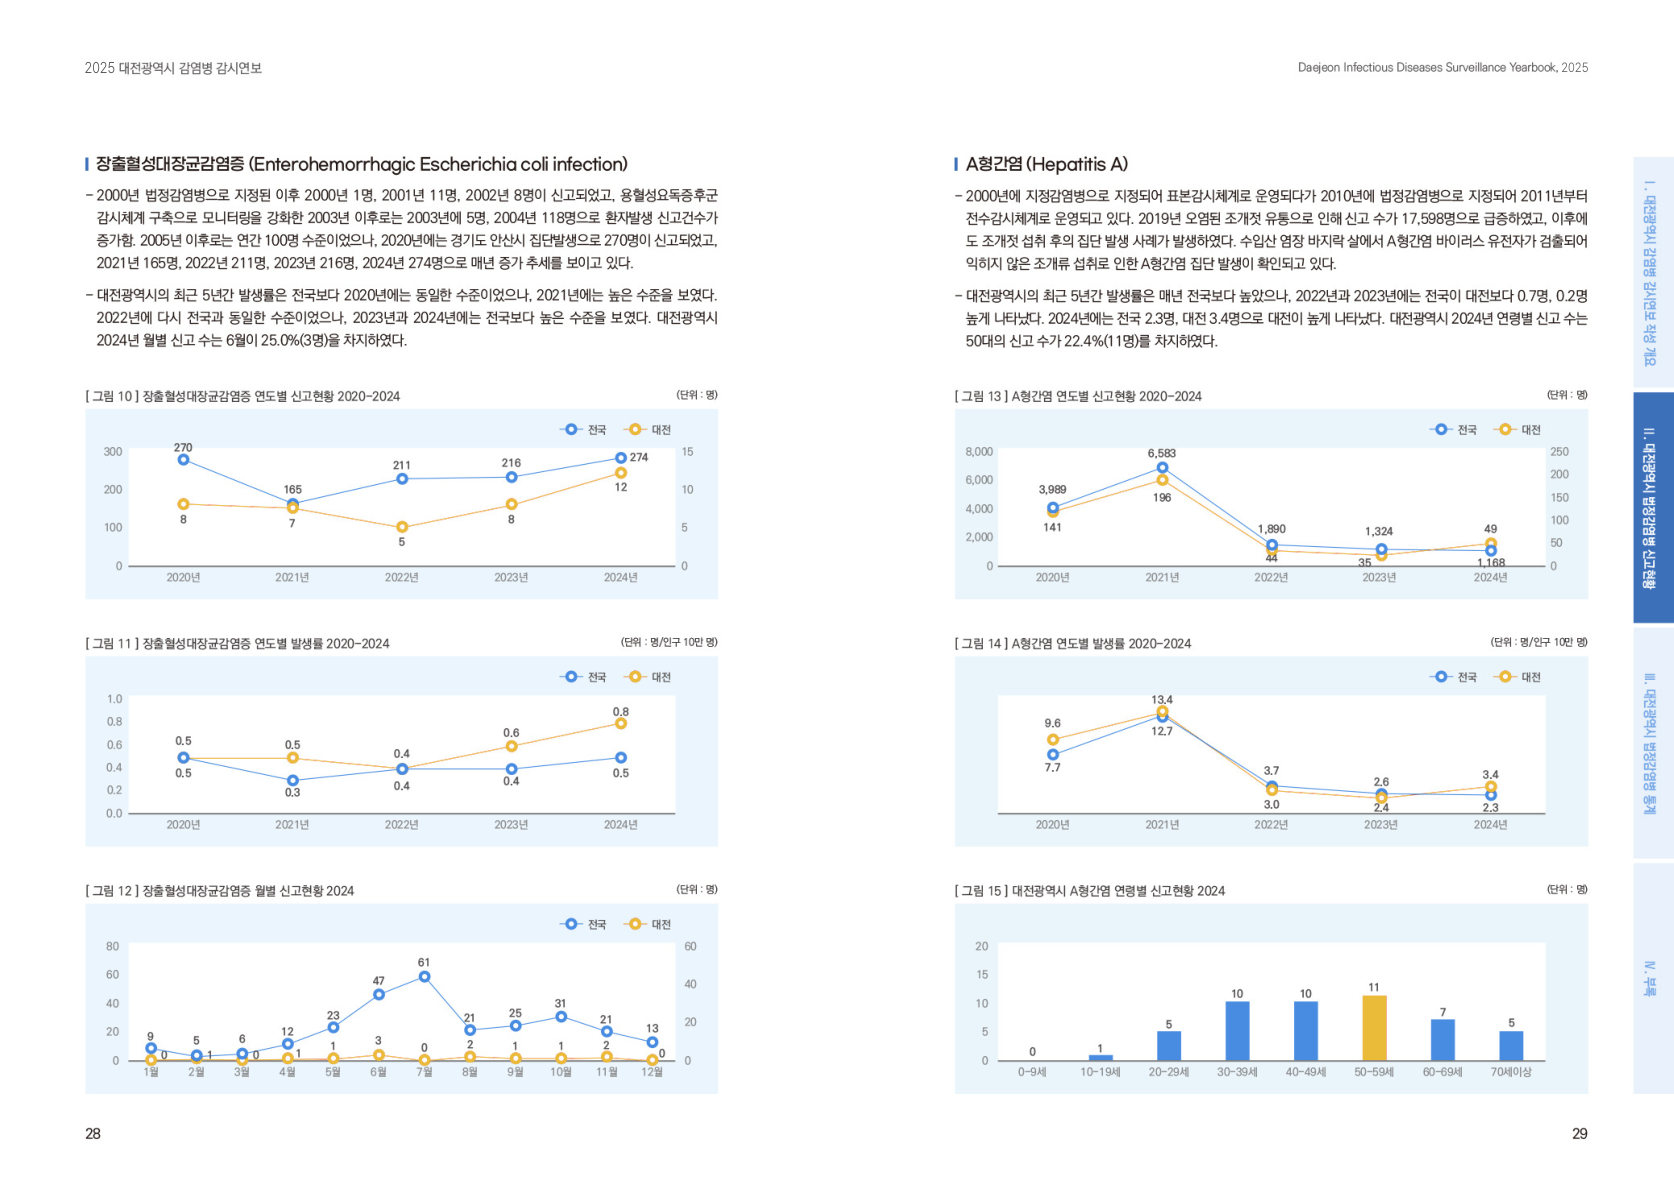
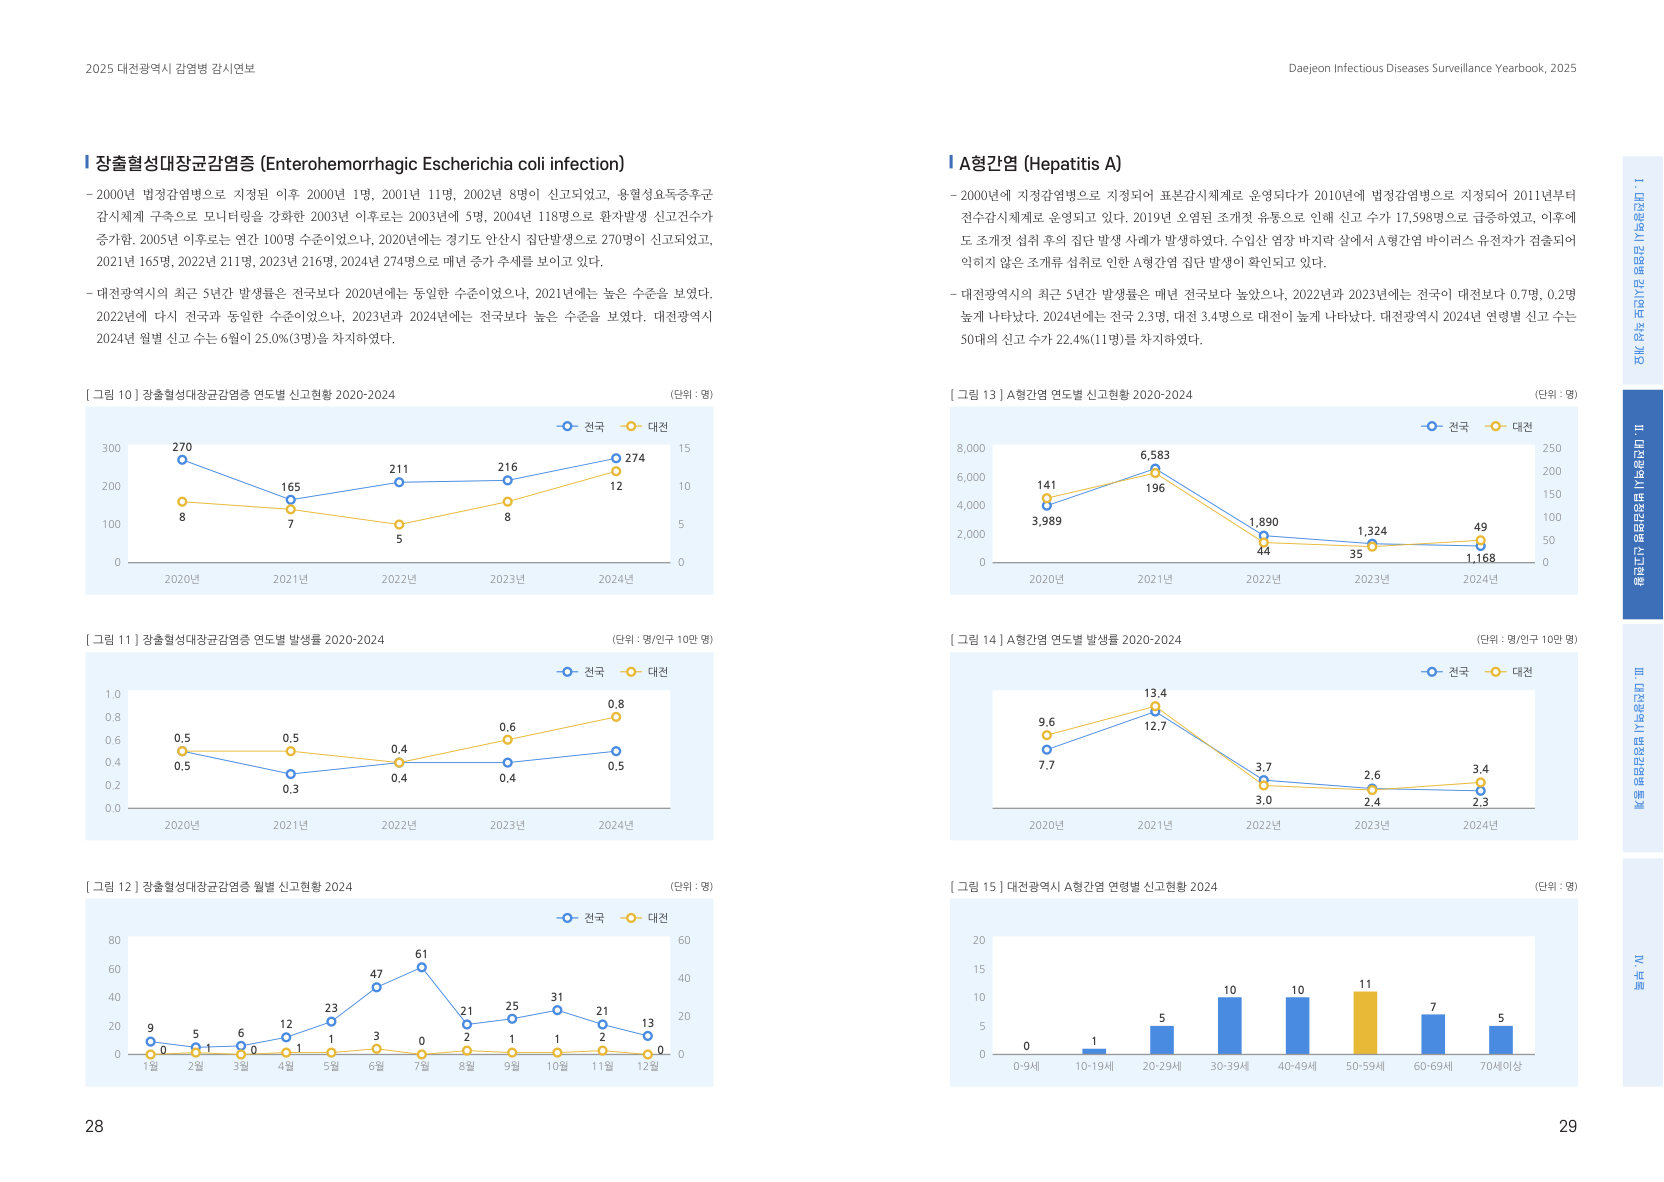
컨펌웹: 공통 일러스트·1안 서체 수정안, 결핵 표지 C안, 내지 벡터 재조판, 진행 상황 패널
- 결핵·감시 표지와 감시 간지 일러스트를 공통 일러스트(라인 + 포인트 면)로 교체
- 표지·간지 글자를 에스코어 드림으로, 내지 6개 펼침면을 1안 서체로 다시 조판
- 결핵 표지 다른 배치(C안) 추가, 감시 간지 제목 위치 조정
- 홈 오른쪽에 전체 진행 상황 패널 추가

diff --git a/index.html b/index.html
@@ -76,6 +76,39 @@ body::before{content:"";position:fixed;inset:0 0 auto;height:env(safe-area-inset
 @media (max-width:860px){.card.rev{grid-template-columns:1fr}}
 .rev-row + .plans{margin-top:24px}
 
+/* 메인: 왼쪽 시안 목록 + 오른쪽 진행 상황 */
+.home-grid{display:grid;grid-template-columns:minmax(0,1fr) 300px;grid-template-areas:"main side";gap:32px;align-items:start}
+.home-main{grid-area:main;min-width:0}
+.home-main .intro{grid-template-columns:1fr}
+.home-main .plans{grid-template-columns:repeat(2,minmax(0,1fr))}
+.progress{grid-area:side;position:sticky;top:calc(env(safe-area-inset-top,0px) + var(--head-h) + 16px);margin-top:12px;background:var(--surface);border:1px solid var(--line);border-radius:10px;padding:18px 18px 8px}
+.progress h2{font-size:16px;font-weight:700}
+.progress .sum{margin:6px 0 0;font-size:13px;color:var(--muted)}
+.progress .sum b{color:var(--fg)}
+.bar{height:6px;border-radius:999px;background:var(--stage);margin:12px 0 16px;overflow:hidden}
+.bar i{display:block;height:100%;background:var(--accent);border-radius:999px}
+.steps{list-style:none;margin:0;padding:0}
+.step{position:relative;display:grid;grid-template-columns:22px minmax(0,1fr);gap:0 10px;padding-bottom:14px}
+.step::before{content:"";position:absolute;left:10px;top:20px;bottom:0;width:2px;background:var(--line)}
+.step:last-child::before{display:none}
+.step.done::before{background:var(--accent)}
+.dot{width:22px;height:22px;border-radius:50%;display:grid;place-items:center;font-size:11px;font-weight:700;border:2px solid var(--line);background:var(--surface);color:var(--muted);position:relative;z-index:1}
+.step.done .dot{background:var(--accent);border-color:var(--accent);color:var(--accent-fg)}
+.step.now .dot{border-color:var(--accent);color:var(--accent);box-shadow:0 0 0 4px color-mix(in srgb,var(--accent) 18%,transparent)}
+.step.wait .dot{border-style:dashed}
+.step h3{font-size:14px;font-weight:700;line-height:1.4;display:flex;flex-wrap:wrap;align-items:center;gap:4px 8px}
+.step.todo h3,.step.wait h3{color:var(--muted);font-weight:500}
+.step p{margin:2px 0 0;font-size:12.5px;color:var(--muted);line-height:1.5}
+.state{font-size:11px;font-weight:700;border-radius:999px;padding:1px 8px;border:1px solid var(--line);color:var(--muted);white-space:nowrap}
+.step.done .state{border-color:transparent;background:var(--stage);color:var(--fg)}
+.step.now .state{background:var(--accent);border-color:var(--accent);color:var(--accent-fg)}
+.progress .legend{display:flex;flex-wrap:wrap;gap:4px 12px;font-size:11.5px;color:var(--muted);border-top:1px solid var(--line);padding:10px 0 8px;margin-top:2px}
+@media (max-width:1000px){
+  .home-grid{grid-template-columns:1fr;grid-template-areas:"side" "main";gap:20px}
+  .progress{position:static;margin-top:16px}
+}
+@media (max-width:640px){.home-main .plans{grid-template-columns:1fr}}
+
 /* 시안 페이지 */
 .plan-head{padding-block:8px 24px;border-bottom:1px solid var(--line)}
 .plan-head h1{font-family:var(--f-display);font-size:clamp(26px,3.6vw,38px);font-weight:800;line-height:1.25;margin-top:4px}
@@ -128,8 +161,7 @@ body::before{content:"";position:fixed;inset:0 0 auto;height:env(safe-area-inset
 @media (prefers-reduced-motion:reduce){*{transition:none!important} html{scroll-behavior:auto}}
 </style>
 
-</head>
-<body>
+</head><body>
 <header class="top">
   <div class="wrap">
     <a class="brand" href="#home">2025 대전광역시 연보 시안</a>
@@ -145,7 +177,7 @@ body::before{content:"";position:fixed;inset:0 0 auto;height:env(safe-area-inset
 
 <script>
 // 이미지를 바꿔 올릴 때마다 IMG_V를 올리면 브라우저·CDN 캐시와 상관없이 새 이미지가 보임
-const IMG_V = "20261119-4";
+const IMG_V = "20261119-8";
 const IMG = n => "img/" + n + "?v=" + IMG_V;
 const PLANS = {
   "1": {
@@ -203,7 +235,7 @@ const REV = {
     ["감시 주색 파랑", "#3A6CB3"], ["감시 보조 노랑", "#E8B730"]
   ],
   scenes: {
-    tb: [["cover", "표지 펼침면"], ["sum", "요약 펼침"], ["toc", "목차 펼침"], ["div", "간지 펼침"], ["body", "본문 샘플"]],
+    tb: [["cover", "표지 펼침면"], ["cover_b", "표지 펼침면 (다른 배치)"], ["sum", "요약 펼침"], ["toc", "목차 펼침"], ["div", "간지 펼침"], ["body", "본문 샘플"]],
     gs: [["cover", "표지 펼침면"], ["toc", "목차 펼침"], ["div", "간지 펼침"], ["body", "본문 샘플"]]
   }
 };
@@ -240,6 +272,42 @@ function setTabs(k) {
   });
 }
 
+// 전체 진행 상황 — 단계가 바뀌면 이 목록의 state만 고친다. done 완료 · now 진행 중 · wait 회신 대기 · todo 예정
+const PROGRESS = {
+  updated: "2026-11-19",
+  steps: [
+    { state: "done", title: "기존 자료·원고 분석", date: "11.14", note: "2023·2024 연보, 결핵연보 원고 검토" },
+    { state: "done", title: "1차 시안 (1·2·3안)", date: "11.14–15", note: "표지·내지 디자인 시스템 3가지 방향" },
+    { state: "done", title: "결핵연보 수정 원고 검토", date: "11.18", note: "2차 원고 오류 목록 전달" },
+    { state: "done", title: "수정안 제작", date: "11.19", note: "이전 디자인 유지 + 컬러 변경, 공통 일러스트, 1안 서체 적용" },
+    { state: "now",  title: "수정안 컨펌", date: "진행 중", note: "표지 2가지 배치, 내지 샘플 확인" },
+    { state: "wait", title: "제공처 확인 사항 회신", date: "대기", note: "지도 5개 구 색상, 2025 신환자율(20.4 / 20.3)" },
+    { state: "wait", title: "최종 원고 수령", date: "대기", note: "결핵연보 최종 수정본, 감시연보 원고" },
+    { state: "todo", title: "본문 조판", date: "예정", note: "확정 디자인으로 전체 쪽 조판" },
+    { state: "todo", title: "교정 (1차·2차)", date: "예정", note: "제공처 교정 반영" },
+    { state: "todo", title: "인쇄용 PDF 납품", date: "예정", note: "PDF/X-1a:2001, CMYK" }
+  ]
+};
+const STATE_KO = { done: "완료", now: "진행 중", wait: "회신 대기", todo: "예정" };
+
+function progressPanel() {
+  const s = PROGRESS.steps, done = s.filter(x => x.state === "done").length, cur = s.find(x => x.state === "now");
+  const items = s.map((x, i) => `
+      <li class="step ${x.state}"${x.state === "now" ? ' aria-current="step"' : ""}>
+        <span class="dot" aria-hidden="true">${x.state === "done" ? "✓" : i + 1}</span>
+        <div><h3>${esc(x.title)}<span class="state">${x.state === "done" ? `<span class="mono">${esc(x.date)}</span>` : STATE_KO[x.state]}</span></h3>
+        <p>${esc(x.note)}</p></div>
+      </li>`).join("");
+  return `
+    <aside class="progress" aria-label="전체 진행 상황">
+      <h2>진행 상황</h2>
+      <p class="sum"><b class="mono">${s.length}</b>단계 중 <b class="mono">${done}</b>단계 완료${cur ? ` · 지금 <b>${esc(cur.title)}</b>` : ""}</p>
+      <div class="bar" role="img" aria-label="${s.length}단계 중 ${done}단계 완료"><i style="width:${Math.round(done / s.length * 100)}%"></i></div>
+      <ol class="steps">${items}</ol>
+      <div class="legend"><span>✓ 완료</span><span>● 진행 중</span><span>┆ 회신 대기</span><span>○ 예정</span><span class="mono">기준 ${PROGRESS.updated}</span></div>
+    </aside>`;
+}
+
 function home() {
   document.title = "2025 대전 연보 시안 검토";
   setTabs(null);
@@ -261,6 +329,9 @@ function home() {
       </div>
     </a>`; }).join("");
   app.innerHTML = `
+   <div class="home-grid">
+    ${progressPanel()}
+    <div class="home-main">
     <section class="intro">
       <div>
         <div class="eyebrow">Design review</div>
@@ -288,7 +359,9 @@ function home() {
         </div>
       </a>
     </section>
-    <section class="plans" aria-label="시안 목록">${cards}</section>`;
+    <section class="plans" aria-label="시안 목록">${cards}</section>
+    </div>
+   </div>`;
   window.scrollTo(0, 0);
 }
 
@@ -418,5 +491,4 @@ function route() {
 window.addEventListener("hashchange", route);
 route();
 </script>
-</body>
-</html>
+</body></html>
